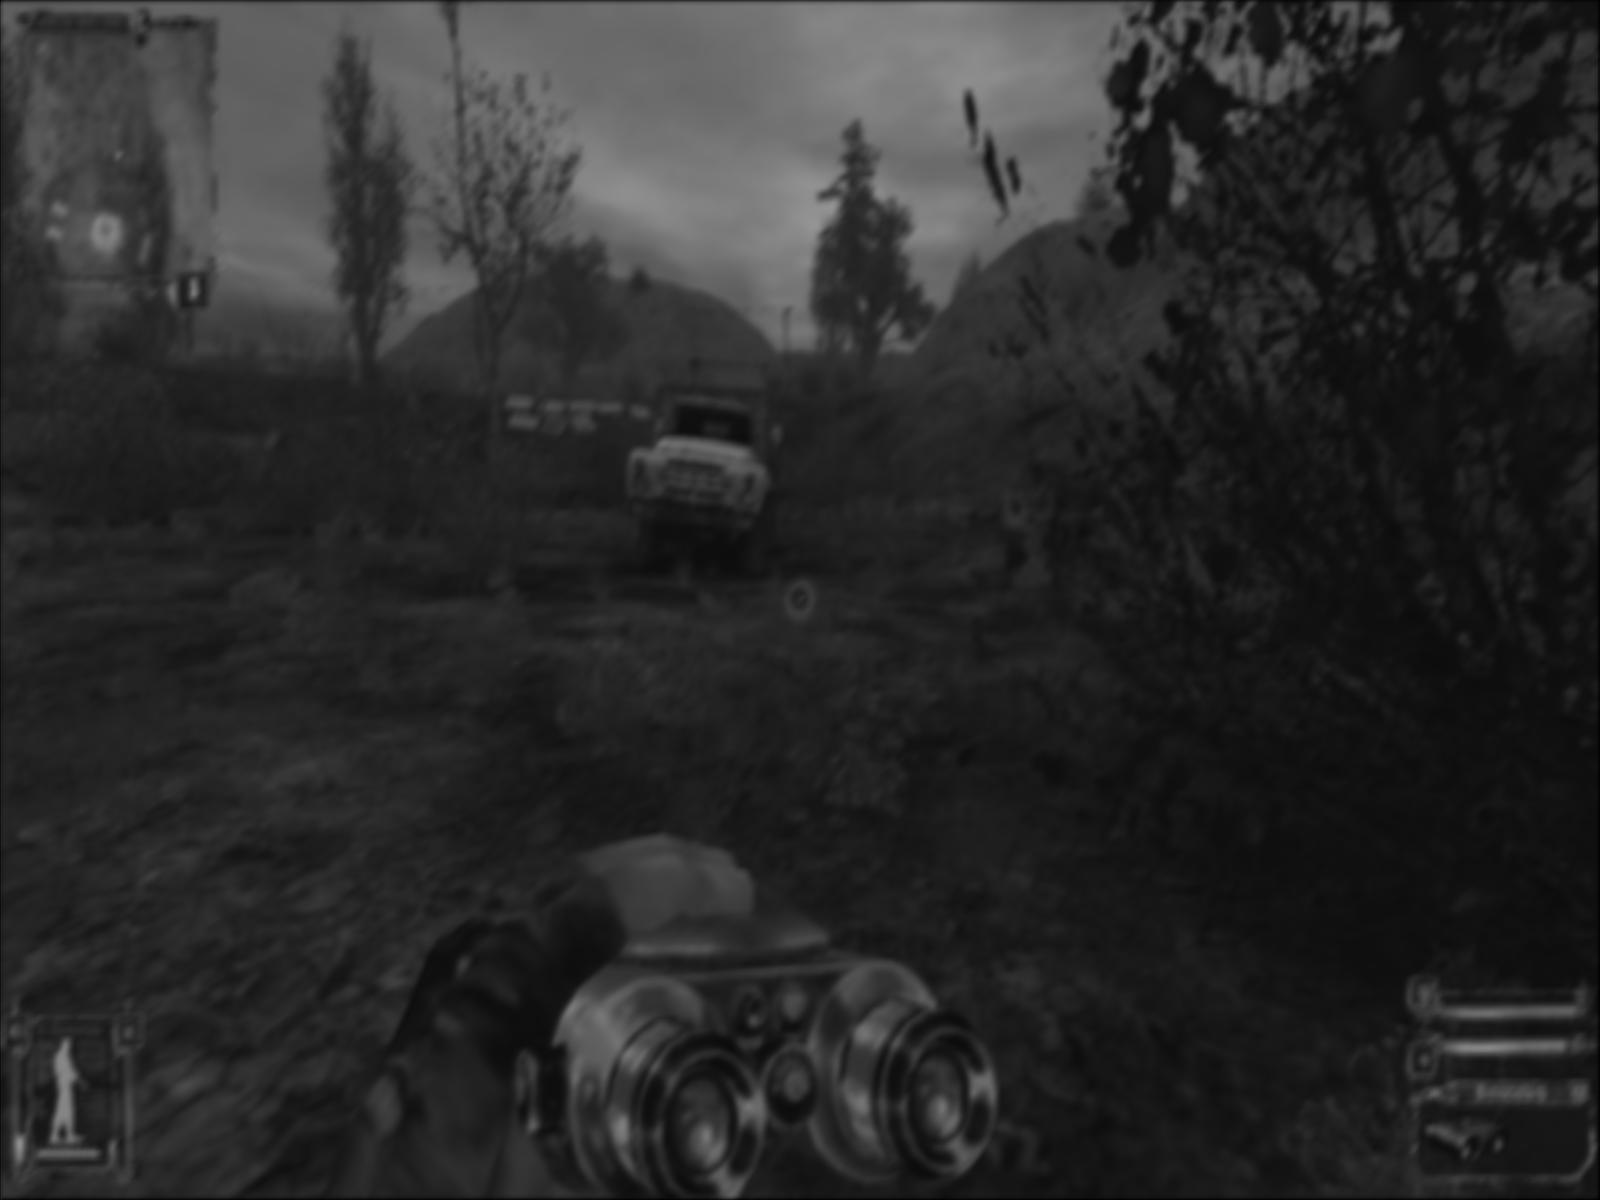
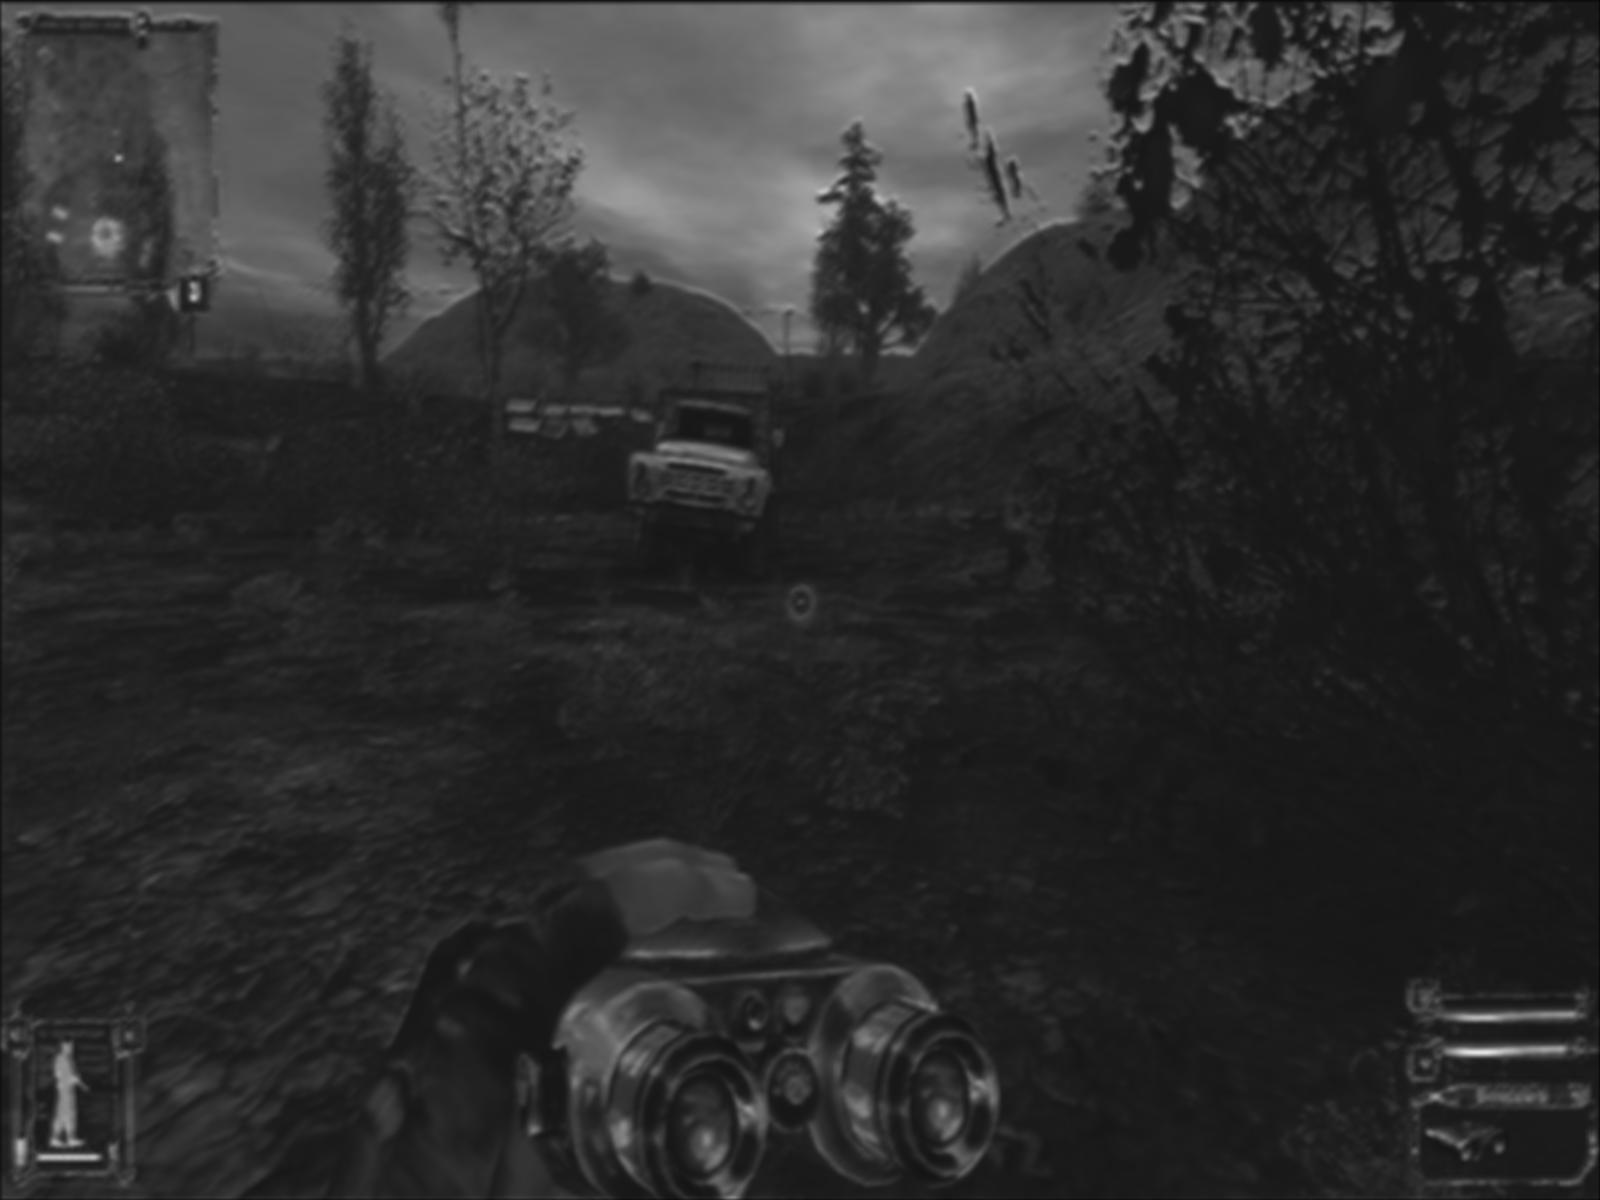
Added a bit more channels, getting slightly better image.

diff --git a/main.py b/main.py
@@ -3,11 +3,11 @@ from dataset import UpscalerDataset
 mps_device = torch.device("mps")
 model = torch.nn.Sequential(
     torch.nn.UpsamplingBilinear2d(size=(1200, 1600)),
-    torch.nn.Conv2d(1, 16, kernel_size=9, padding=4),
+    torch.nn.Conv2d(1, 32, kernel_size=9, padding=4),
     torch.nn.ReLU(),
-    torch.nn.Conv2d(16, 8, kernel_size=1, padding=0),
+    torch.nn.Conv2d(32, 16, kernel_size=1, padding=0),
     torch.nn.ReLU(),
-    torch.nn.Conv2d(8, 1, kernel_size=5, padding=2),
+    torch.nn.Conv2d(16, 1, kernel_size=5, padding=2),
 )
 
 model.to(mps_device)
